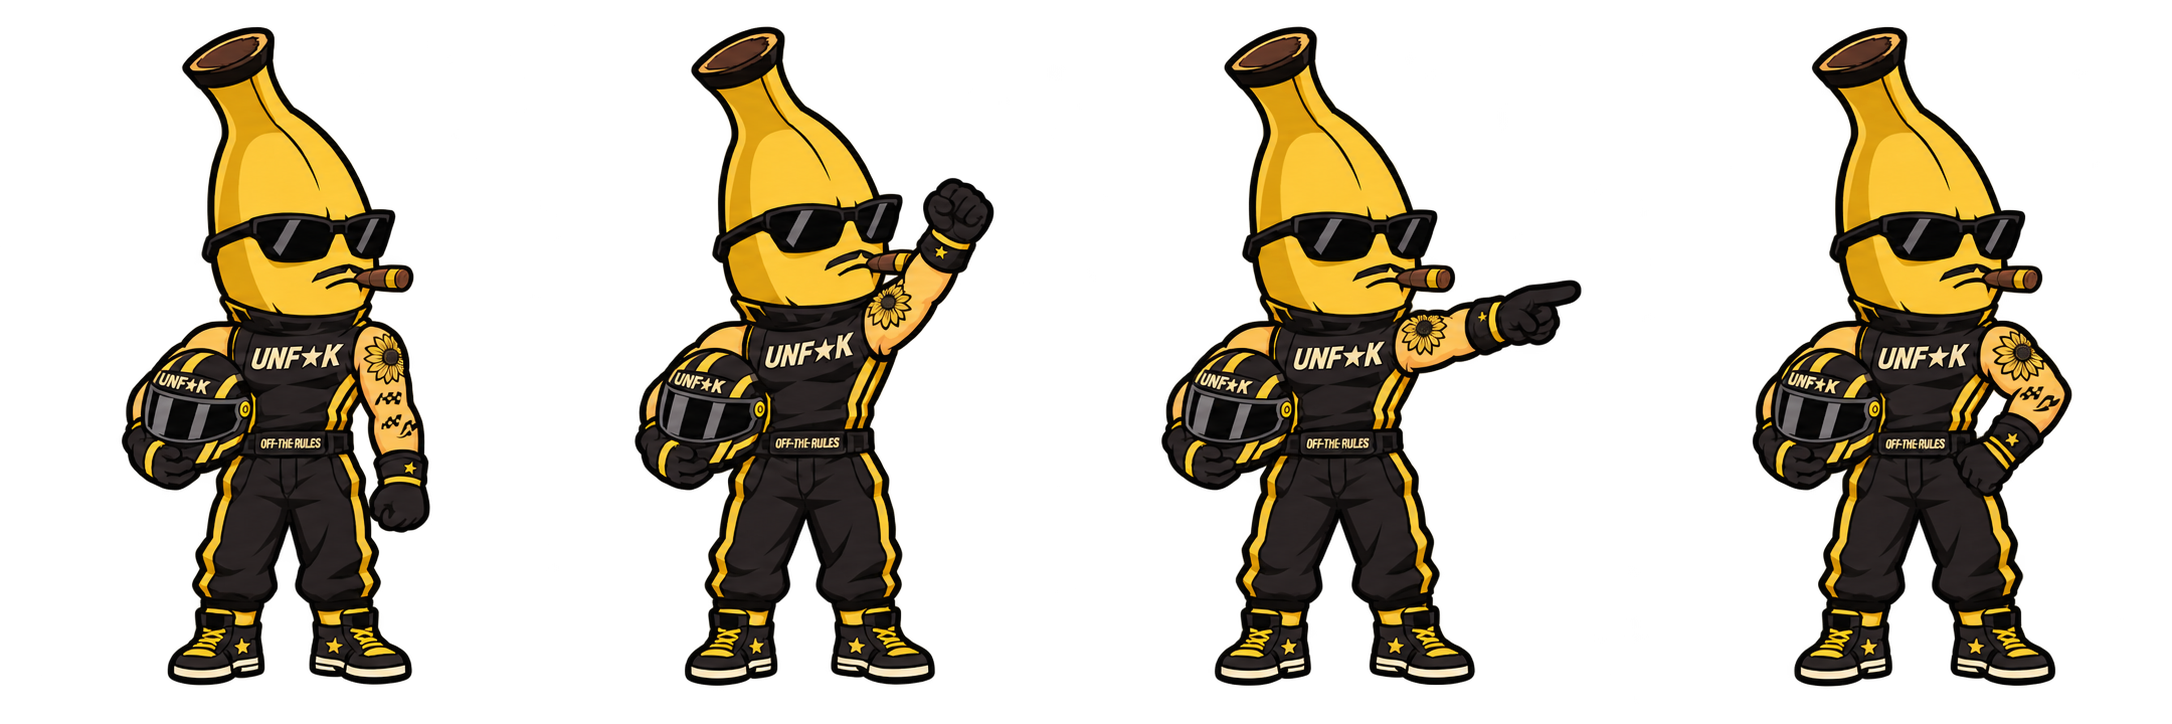
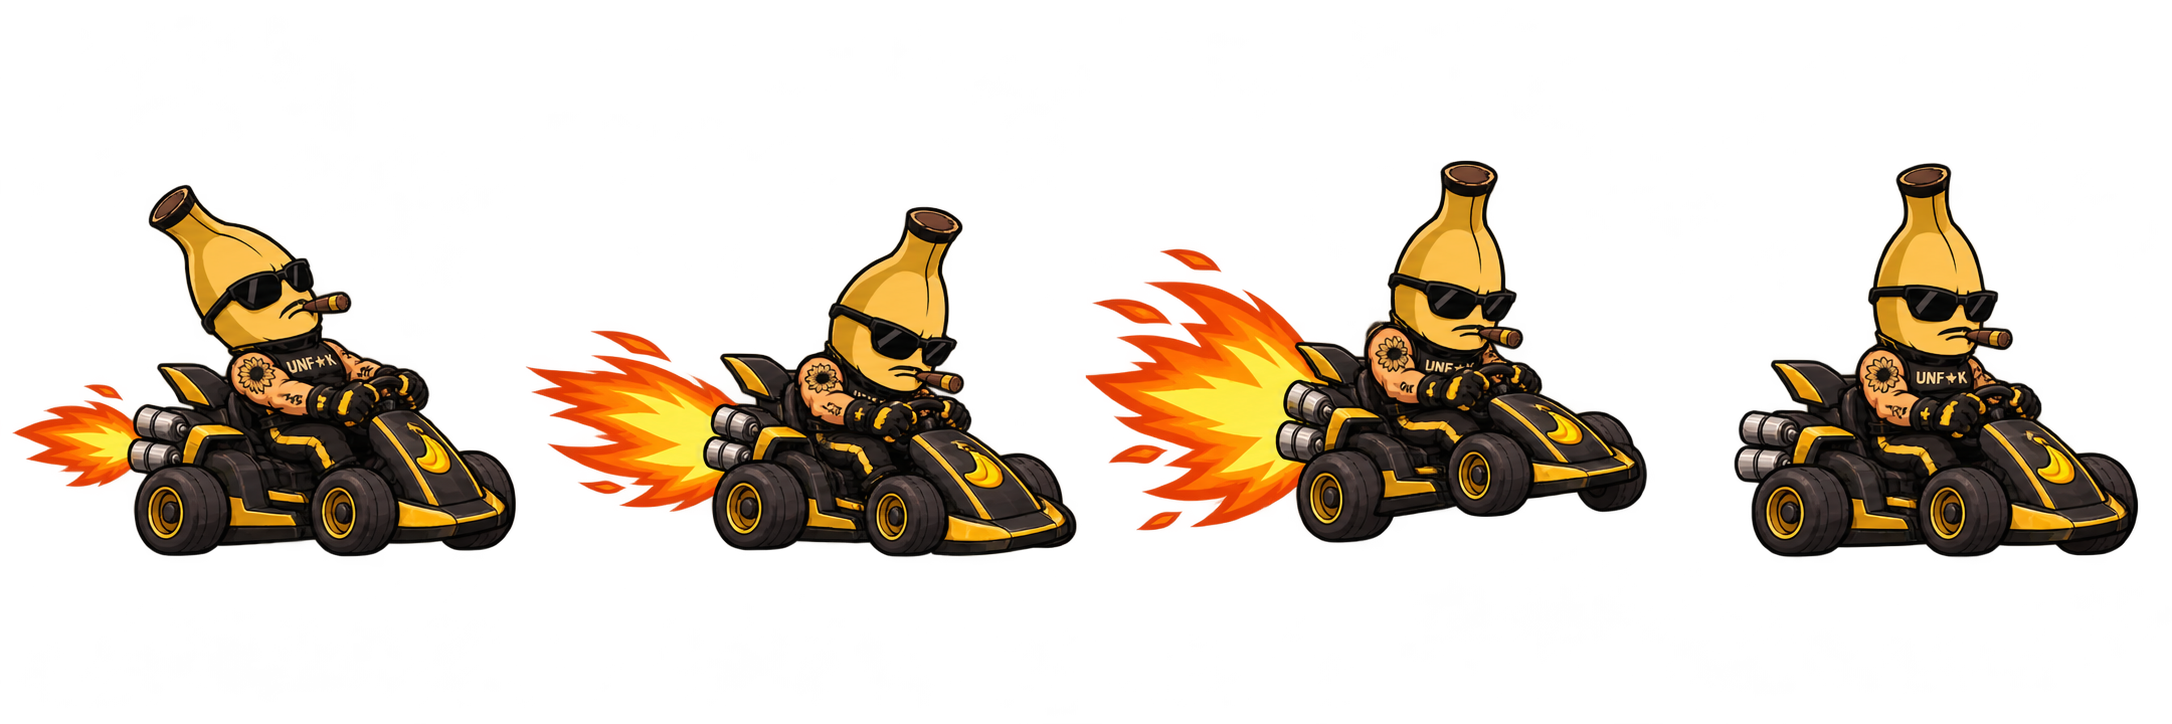
起秋改為全程駕駛卡丁車衝撞；加入版權聲明
Claude-Session: https://claude.ai/code/session_01EGpjLjwrbFGp3hyfJcxghW

diff --git a/src/sim/weapons.js b/src/sim/weapons.js
@@ -1,7 +1,7 @@
 // 武器行為。每個行為是 (W, p, w, dt) => void；w.s 是當前等級的數值，w.t 是冷卻計時。
 // 新武器若能用既有行為 + 不同數值組合出來，就只需要改 data/weapons.js。
 import { TAU, angDiff, dist2 } from '../core/util.js';
-import { bHaste, addBuff } from './player.js';
+import { bHaste, addBuff, dash } from './player.js';
 import { solidAt } from './levelgen.js';
 
 const FX = { steel: 0, heavy: 1, toxic: 2, punch: 3, wood: 4, teal: 5 };
@@ -306,7 +306,26 @@ export const BEH = {
     volley(W, p, w, a, s, null);
   },
 
-// 起秋：放出卡丁車衝撞貫穿，同時以引擎聲浪為附近隊友加速
+// 起秋：開著卡丁車直接衝撞。碰到的敵人持續受傷並被撞開；移動中會定期自動氮氣衝刺。
+  ram(W, p, w, dt) {
+    const s = w.s, R = s.ramR * p.st.area, mv = p.moving ? 1 : 0.5;
+    if (!p.dash) W.hash.query(p.x, p.y, R, (e) => {
+      const ot = e.ot || (e.ot = {});
+      if ((ot[w.uid] || 0) > W.time) return;
+      ot[w.uid] = W.time + s.hitCd / bHaste(p);
+      W.strike(p, e, s.dmg * mv, { kb: s.kb * mv, sx: p.x, sy: p.y });
+    });
+    w.t -= dt * bHaste(p);
+    if (w.t > 0 || !p.moving || p.dash || !W.nearestEnemy(p.x, p.y, 260)) return;
+    w.t = s.boostCd * p.st.cd; p.atkN++;
+    const a = Math.atan2(p.in.my, p.in.mx); p.atkA = a;
+    const x0 = p.x, y0 = p.y;
+    dash(p, a, s.boostDist, 0.2, { dmg: s.dmg * s.boostMul, hitR: R + 14, hitOpt: { kb: s.kb * 1.8, stun: 0.3 },
+      onEnd(W2, q) { if (s.trail) W2.addZone({ kind: 'fire', owner: q, x: (x0 + q.x) / 2, y: (y0 + q.y) / 2, r: 62, dur: 2.5, tick: 0.4, dmg: s.dmg * 0.5, hitOpt: { quiet: true } }); } });
+    W.playersIn(p.x, p.y, s.r * p.st.area, (q) => addBuff(q, 'cheer', { t: s.buffDur, dmg: s.buffDmg, haste: s.buffHaste, speed: s.buffSpeed || 0 }));
+    W.emit('r', p.x | 0, p.y | 0, (s.r * p.st.area) | 0, 4);
+  },
+  // （舊）放出卡丁車衝撞貫穿
   kart(W, p, w, dt) {
     const s = w.s;
     w.t -= dt * bHaste(p);

diff --git a/src/data/weapons.js b/src/data/weapons.js
@@ -204,15 +204,15 @@ W('mines', {
   ],
 });
 W('cheer', {
-  name: '爆蕉號', glyph: '車', beh: 'kart', proj: 'kart',
-  base: { dmg: 20, cd: 1.5, count: 1, speed: 560, life: 0.75, range: 430, pierce: 99, kb: 180, r: 185, buffDmg: 0.08, buffHaste: 0.08, buffSpeed: 0.08, buffDur: 3 },
+  name: '爆蕉號', glyph: '車', beh: 'ram',
+  base: { dmg: 15, hitCd: 0.45, ramR: 44, kb: 220, boostCd: 2.4, boostMul: 2.4, boostDist: 130, r: 185, buffDmg: 0.08, buffHaste: 0.08, buffSpeed: 0.08, buffDur: 3, armorAdd: 2 },
   lv: [
-    ['引擎聲浪範圍 +20%', { m: { r: 1.2 } }],
+    ['衝撞傷害 +25%', { m: { dmg: 1.25 } }],
     ['加速：隊友攻速與移速加成提升至 14%', { s: { buffHaste: 0.14, buffSpeed: 0.14 } }],
-    ['傷害 +35%', { m: { dmg: 1.35 } }],
+    ['氮氣衝刺冷卻 -20%', { m: { boostCd: 0.8 } }],
     ['引擎聲浪同時提升 14% 攻擊力', { s: { buffDmg: 0.14 } }],
-    ['一次放出 2 台卡丁車', { a: { count: 1 }, s: { spread: 0.5 } }],
-    ['攻速與移速加成提升至 22%，冷卻 -22%', { s: { buffHaste: 0.22, buffSpeed: 0.22 }, m: { cd: 0.78 } }],
+    ['衝撞範圍 +30%，氮氣衝刺距離 +30%', { m: { ramR: 1.3, boostDist: 1.3 } }],
+    ['攻速與移速加成提升至 22%，氮氣衝刺留下火焰', { s: { buffHaste: 0.22, buffSpeed: 0.22, trail: 1 } }],
   ],
 });
 W('drones', {

diff --git a/src/data/characters.js b/src/data/characters.js
@@ -145,8 +145,8 @@ C({
 });
 C({
   id: 'qiqiu', name: '起秋', en: 'QI QIU', role: 'support', cls: 'Rider', species: '擬人化香蕉',
-  hp: 100, speed: 160, armor: 0, weapon: 'cheer', unlock: 0, sheet: true,
-  quote: '引擎已經預熱，勝利只是剛好而已。', desc: '傳奇香蕉車手。放出卡丁車「爆蕉號」衝撞貫穿敵人，引擎聲浪讓附近的隊友攻速、移速全面加快。',
+  hp: 125, speed: 172, armor: 0, weapon: 'cheer', unlock: 0, sheet: true,
+  quote: '引擎已經預熱，勝利只是剛好而已。', desc: '傳奇香蕉車手，全程開著卡丁車「爆蕉號」。直接衝撞輾過敵人，移動中會自動發動氮氣衝刺；引擎聲浪讓附近的隊友攻速、移速全面加快。',
   skill: { id: 'qq_morale', name: '蕉影漂移', cd: 12, desc: '附近隊友 6 秒內攻擊、攻速、移速全面提升。' },
   ult: { id: 'qq_amp', name: '全速蕉進・終點無規則', charge: 200, desc: '全隊 10 秒內傷害與攻速大幅提升，回復生命並重置技能冷卻。' },
 });

diff --git a/src/render/renderer.js b/src/render/renderer.js
@@ -107,7 +107,7 @@ export class Renderer {
     let aim = flip ? Math.PI - p.atkA : p.atkA;
     if (a.atkT > 0.5) aim = flip ? Math.PI - p.aim : p.aim;
     aim = Math.atan2(Math.sin(aim), Math.cos(aim));
-    const dur = info.charId === 'tingge' ? 0.16 : info.charId === 'laoliu' ? 0.34 : 0.24;
+    const dur = info.charId === 'tingge' ? 0.16 : info.charId === 'laoliu' ? 0.34 : info.charId === 'qiqiu' ? 0.3 : 0.24;
     // 影子與腳下光圈
     g.fillStyle = 'rgba(0,0,0,.38)'; g.beginPath(); g.ellipse(p.x, p.y, 15 - p.jz * 0.05, 6 - p.jz * 0.02, 0, 0, TAU); g.fill();
     g.strokeStyle = col; g.lineWidth = 2; g.globalAlpha = down ? 0.35 : 0.75; g.beginPath(); g.ellipse(p.x, p.y, 19, 8, 0, 0, TAU); g.stroke(); g.globalAlpha = 1;

diff --git a/src/ui/screens.js b/src/ui/screens.js
@@ -84,7 +84,7 @@ export class Screens {
         <button class="btn ghost" data-a="roster">角色</button>
         <button class="btn ghost" data-a="talents">天賦強化</button>
       </div>
-      <div class="foot">WASD / 方向鍵移動・自動攻擊・空白鍵 技能・Q 寶具　｜　<a data-a="reset" style="cursor:pointer;text-decoration:underline">清除存檔</a></div>
+      <div class="foot">WASD / 方向鍵移動・自動攻擊・空白鍵 技能・Q 寶具　｜　<a data-a="reset" style="cursor:pointer;text-decoration:underline">清除存檔</a>　｜　© 2026 UNTAG 倖存戰線・版權所有</div>
     </div>`;
   }
 

diff --git a/src/render/chibi.js b/src/render/chibi.js
@@ -250,7 +250,7 @@ function placeholder(g, p, def) {
 // 新增角色：把 <id>_walk.png / <id>_attack.png 放進來源資料夾重跑該工具即可。
 // H = 角色在遊戲內的身高（世界單位）；個別角色可在這裡微調。
 const H_DEFAULT = 82;
-const H = { moumou_siege: 98, xia: 86, yingzhang: 76, gouqi: 74, laojin: 70, nongfu: 96, moumou: 96, laoliu: 76 };
+const H = { qiqiu: 86, moumou_siege: 98, xia: 86, yingzhang: 76, gouqi: 74, laojin: 70, nongfu: 96, moumou: 96, laoliu: 76 };
 const IMG = {};
 function loadImg(name) {
   if (IMG[name]) return IMG[name].p;

diff --git a/src/data/sprites.js b/src/data/sprites.js
@@ -135,11 +135,11 @@ export const SPRITE_SHEETS = {
  "qiqiu": {
   "px": 250,
   "walk": [
-   138,
+   294,
    255
   ],
   "attack": [
-   184,
+   407,
    254
   ]
  },

diff --git a/LICENSE.md b/LICENSE.md
@@ -1,0 +1,20 @@
+# 版權聲明
+
+© 2026 UNTAG 倖存戰線 製作團隊（GitHub：amber01234567-dot）。保留所有權利。
+
+本專案的原始碼雖然公開可見，但**並非開源軟體**，未授予任何使用授權。
+
+未經著作權人事先書面同意，不得：
+
+- 複製、修改、散布或公開傳輸本專案的程式碼；
+- 使用本專案的角色、角色設定、名稱、圖像、動畫、圖示、場景及其他美術素材（包含 `assets/` 與 `art-src/` 內的所有檔案）；
+- 將本專案的全部或一部分用於其他遊戲、商品、訓練資料集或任何商業用途。
+
+歡迎遊玩本遊戲，以及基於個人學習目的閱讀程式碼。
+
+## 第三方元件
+
+- `vendor/peerjs.min.js`：PeerJS，依 MIT 授權使用，著作權屬原作者所有。
+- 介面字型 Noto Sans TC／Noto Serif TC 由 Google Fonts 提供，依 SIL Open Font License 授權。
+
+如需授權或合作，請透過上述 GitHub 帳號聯絡。

diff --git a/README.md b/README.md
@@ -98,3 +98,7 @@ node tools/simtest.mjs 1-4 all            # 每個角色用機器人跑一次 1-
 node tools/simtest.mjs 2-B tingge,laijie 2 0 0.5   # 2 人、普通難度、局外養成 50% 的狀態打 2-B
 ```
 輸出通關與否、時間、等級、最低血量、各自傷害 / 治療，用來粗估難度曲線。
+
+## 版權
+
+版權所有，未經同意不得使用本專案的程式碼與美術素材。詳見 [LICENSE.md](LICENSE.md)。
